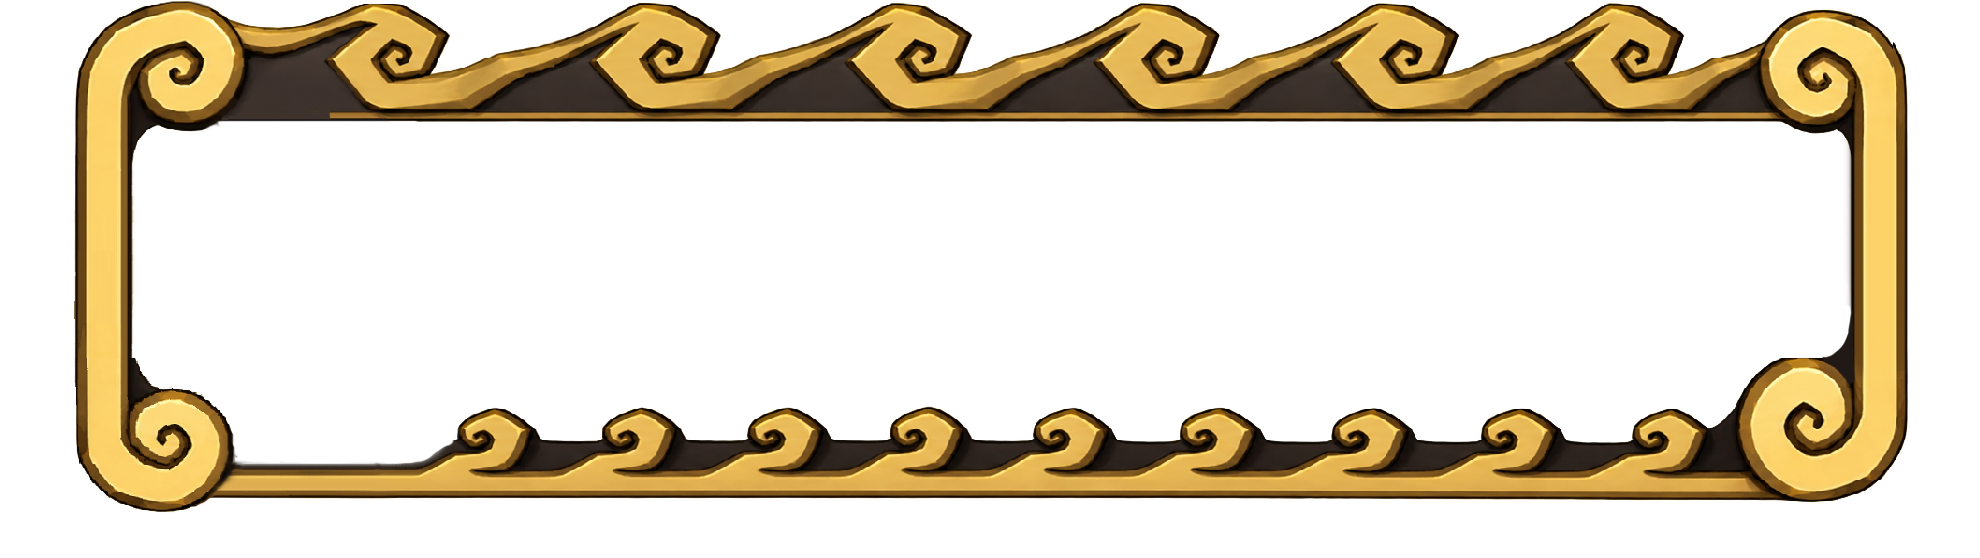
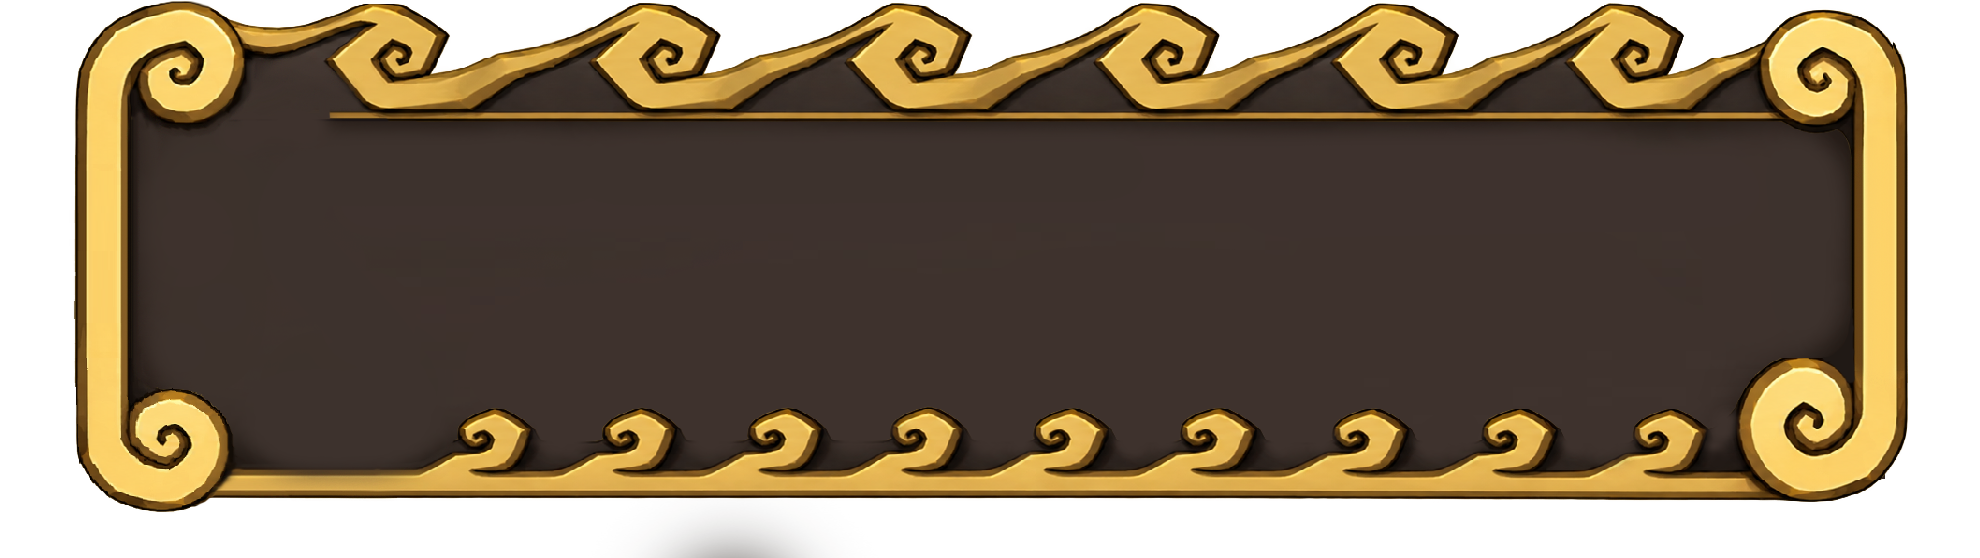
Song sheet restyle: framed background, gold inlay staff, drop shadows
The user's scrollwork art now carries its own background, so it
draws first as the sheet itself and the staff, notes, title and clef
paint on top; the old drawn panel is just the fallback.

Staff lines are gold (#bf8b39) on a dark #30261c stroke so they read
as inlay, and the clef gets a matching down-right drop shadow. Only
the bottom line stops short -- measured from the art, the lower-right
corner scroll reaches ~46px into the panel while the other four
lines clear it at full width.

Also: HUD colors are display values, not linear (the framebuffer
isn't sRGB) -- linearizing a swatch renders it near-black.

Claude-Session: https://claude.ai/code/session_01NGkraeUKcZb6mSk4fBAFvU

diff --git a/src/main.cpp b/src/main.cpp
@@ -4002,20 +4002,26 @@ int main(int argc, char** argv)
                     }
                 };
 
-                const float panel_c[4] = {0.05f, 0.04f, 0.06f, 0.88f};
+                // the user's swatch #2D231F, so the sheet reads as one
+                // piece with the frame art's band. NOTE: the framebuffer
+                // isn't sRGB, so colors here are display values (45/255,
+                // 35/255, 31/255) -- linearizing them renders near-black
+                const float panel_c[4] = {0.176f, 0.137f, 0.122f, 1.0f};
                 const float edge_c[4] = {0.55f, 0.42f, 0.20f, 0.75f};
-                const float staff_c[4] = {0.98f, 0.42f, 0.13f, 1.0f};
+                const float staff_c[4] = {0.749f, 0.545f, 0.224f, 1.0f};  // #bf8b39
+                const float staff_shadow_c[4] = {0.188f, 0.149f, 0.110f, 1.0f};  // #30261c
                 const float cream[4] = {0.97f, 0.94f, 0.88f, 1.0f};
                 const float white[4] = {0.96f, 0.96f, 0.94f, 1.0f};
 
                 const bool has_msg = hud_message[0] != '\0';
                 const float PH = has_msg ? 156.0f : 126.0f;
                 const float PX = 340.0f, PY = 690.0f - PH, PW = 600.0f;
-                // NOT just a border: round_rect fills, so the gold layer is
-                // the warm underlay the dark fill blends over -- skipping it
-                // shifts the whole sheet's color
-                round_rect(PX - 2, PY - 2, PW + 4, PH + 4, 16, edge_c);
-                round_rect(PX, PY, PW, PH, 15, panel_c);
+                // the frame art carries its own background, so the drawn
+                // panel is only the fallback when it didn't load
+                if (!frame_tex) {
+                    round_rect(PX - 2, PY - 2, PW + 4, PH + 4, 16, edge_c);
+                    round_rect(PX, PY, PW, PH, 15, panel_c);
+                }
 
                 if (has_msg) {
                     const float px = 2.0f;
@@ -4023,12 +4029,21 @@ int main(int argc, char** argv)
                     text(hud_message, x, PY + 16, px, white);
                 }
 
-                // staff: five orange lines, like the ocarina UI
+                // staff: five gold lines, each on a dark stroke so it reads
+                // as inlay rather than paint
                 const float SX = PX + 24, SW = PW - 48;
+                // only the bottom line runs into the frame's lower-right
+                // corner scroll (~46px into the panel), so just that one
+                // stops short; the other four keep the full width
+                const float SW_BOT = frame_tex ? PW - 24 - 50.0f : SW;
                 const float SGAP = 17.0f;
                 const float S0 = PY + (has_msg ? 52.0f : 26.0f);
-                for (int i = 0; i < 5; ++i)
-                    rect(SX, S0 + i * SGAP, SW, 2.4f, staff_c);
+                for (int i = 0; i < 5; ++i) {
+                    const float ly = S0 + i * SGAP;
+                    const float lw = (i == 4) ? SW_BOT : SW;
+                    rect(SX, ly - 1.2f, lw, 2.4f + 2.4f, staff_shadow_c);
+                    rect(SX, ly, lw, 2.4f, staff_c);
+                }
                 const float bottom_line = S0 + 4 * SGAP;
 
                 // the notes he has played, as real notation: the natural sits on
@@ -4054,6 +4069,11 @@ int main(int argc, char** argv)
                 glDisable(GL_DEPTH_TEST);
                 glEnable(GL_BLEND);
                 glBlendFunc(GL_SRC_ALPHA, GL_ONE_MINUS_SRC_ALPHA);
+
+                // the sheet itself: frame art + its own background, under
+                // the staff, notes and title
+                draw_sheet_frame(PX, PY, PW, PH, F);
+
                 glUseProgram(hud_prog);
                 const float screen_uni[3] = {VW, VH, 0.0f};
                 glUniform3fv(h_screen, 1, screen_uni);
@@ -4070,10 +4090,6 @@ int main(int argc, char** argv)
                 const float font_col[4] = {0.96f, 0.96f, 0.94f, F};
                 draw_font_verts(font_batch, font_col);
 
-                // the scrollwork frame, mapped at its native aspect around
-                // the panel (it was drawn around this exact layout)
-                draw_sheet_frame(PX, PY, PW, PH, F);
-
                 // the real clef glyph, as a tinted alpha quad
                 {
                     const float ch = 7.4f * SGAP;
@@ -4081,25 +4097,36 @@ int main(int argc, char** argv)
                     const float cx0 = SX + 8.0f;
                     // the spiral of the glyph sits ~63% down: line it up with G
                     const float cy0 = (S0 + 3 * SGAP) - 0.63f * ch;
-                    const float quad[6][4] = {
-                        {cx0, cy0, 0, 0},
-                        {cx0 + cw, cy0, 1, 0},
-                        {cx0, cy0 + ch, 0, 1},
-                        {cx0 + cw, cy0, 1, 0},
-                        {cx0 + cw, cy0 + ch, 1, 1},
-                        {cx0, cy0 + ch, 0, 1},
-                    };
-                    const float clef_col[4] = {0.98f, 0.74f, 0.24f, F};
                     glUseProgram(clef_prog);
                     glUniform3fv(ct_screen, 1, screen_uni);
-                    glUniform4fv(ct_color, 1, clef_col);
                     glUniform1i(ct_tex, 0);
                     glActiveTexture(GL_TEXTURE0);
                     glBindTexture(GL_TEXTURE_2D, clef_tex);
                     glBindVertexArray(clef_vao);
                     glBindBuffer(GL_ARRAY_BUFFER, clef_vbo);
-                    glBufferData(GL_ARRAY_BUFFER, sizeof(quad), quad, GL_STREAM_DRAW);
-                    glDrawArrays(GL_TRIANGLES, 0, 6);
+                    // drawn twice: a dark copy nudged down-right for the
+                    // drop shadow (same stroke color as the staff lines),
+                    // then the gold glyph itself
+                    const float clef_col[4] = {0.98f, 0.74f, 0.24f, F};
+                    const float clef_shadow[4] = {0.188f, 0.149f, 0.110f,
+                                                  F * 0.85f};
+                    for (int pass = 0; pass < 2; ++pass) {
+                        const float o = pass == 0 ? 2.5f : 0.0f;
+                        const float x0 = cx0 + o, y0 = cy0 + o;
+                        const float quad[6][4] = {
+                            {x0, y0, 0, 0},
+                            {x0 + cw, y0, 1, 0},
+                            {x0, y0 + ch, 0, 1},
+                            {x0 + cw, y0, 1, 0},
+                            {x0 + cw, y0 + ch, 1, 1},
+                            {x0, y0 + ch, 0, 1},
+                        };
+                        glUniform4fv(ct_color, 1,
+                                     pass == 0 ? clef_shadow : clef_col);
+                        glBufferData(GL_ARRAY_BUFFER, sizeof(quad), quad,
+                                     GL_STREAM_DRAW);
+                        glDrawArrays(GL_TRIANGLES, 0, 6);
+                    }
                     glBindVertexArray(0);
                 }
                 glDisable(GL_BLEND);
